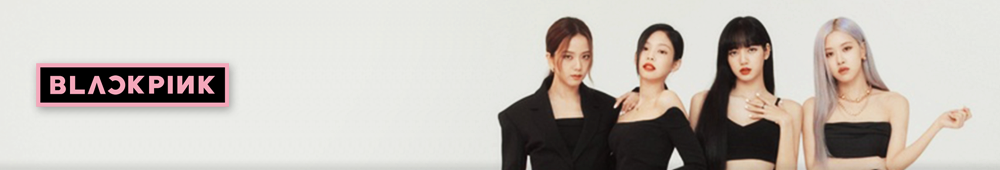
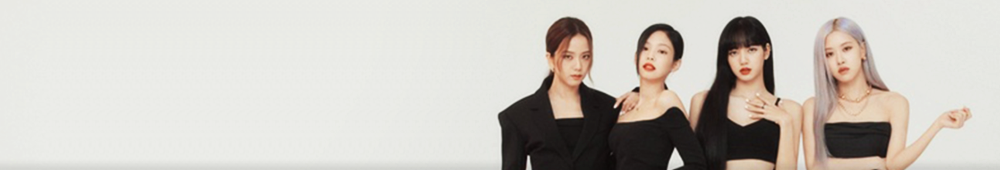
Add files via upload

Changed region(s): [[0.031, 0.3529, 0.248, 0.6765]]

diff --git a/css/bbs.css b/css/bbs.css
@@ -2,6 +2,7 @@
 
 /* reset */
 *{margin: 0; padding: 0;}
+ul,li{margin: 0; padding: 0;list-style:none;}
 body{background-color: #f4a6ba;}
 a {text-decoration: none;}
 .blind {position: absolute;top: 0; left: 0;
@@ -12,7 +13,27 @@ width: 0; height: 0; font-size: 0;
 #wrap {width: 1000px; margin: 0 auto;box-shadow: 0 0 50px rgba(0,0,0,0.2);
 
 }
-header {width: 1000px; height:170px; background-color: #000; margin: 0 auto;}
+header {width: 1000px; height:170px;
+     background:url("../images/bbs/top.png");
+    margin: 0 auto; position: relative; /* 기준점*/
+}
+header .logo img {width: 200px; margin-top: 60px;
+box-shadow: 0 0 20px rgba(0,0,0,0.3);
+margin-left: 30px;
+}
+header .menu {width: 608px; height: 35px; font-family:'Exo 2' ;
+      position: absolute; bottom: 0; right: 0;}
+header .menu ul li a {display: block; float: left;
+    background-color: #000;
+    width: 150px; height: 35px; line-height: 35px; margin-left: 2px;
+    text-align: center; color: #fff;
+    border-top-right-radius: 10px;
+    border-top-left-radius: 10px;
+}
+header .menu ul li a:hover,header .menu ul li a:focus
+ {
+    background-color: #f4a6ba; color: #000;
+}
 /* bbs */
 #contents {
     position: relative;
@@ -21,7 +42,9 @@ background-color: #fff;
 margin:0 auto; padding-top: 130px;
 padding-bottom: 100px; 
 }
-#contents h2 {position: absolute; top: 60px;left: 100px; font-size: 30px;}
+#contents h2 {position: absolute; top: 60px;left: 100px;
+    font-family:'Exo 2';
+    font-size: 30px;}
 #contents table {width: 800px;
 margin: 0 auto; font-size: 13px;
 border-top:2px solid #a3a3a3; 

diff --git a/div.span.html b/div.span.html
@@ -1,0 +1,44 @@
+<!DOCTYPE html>
+<html lang="en">
+<head>
+    <meta charset="UTF-8">
+    <meta http-equiv="X-UA-Compatible" content="IE=edge">
+    <meta name="viewport" content="width=device-width, initial-scale=1.0">
+    <title>div(block),span(inline)</title>
+    <style>
+        div {width: 100px; height: 30px;  line-height: 30px;
+            margin: 30px; background-color: pink;
+        text-align: center;  
+                
+        /* cursor: pointer; 커서 - 손가락표시 */
+        /* display: none;가리기 */
+        /* display: block; 보기 */ 
+        /* display: inline;  인라인 */ 
+        /* background-color: skyblue; */ 
+        }
+        
+        span {width: 200px; height: 30px;  line-height: 30px;
+            margin: 30px; background-color: pink;
+        text-align: center;  
+        display: block;
+        /* display: inline; */
+        }
+
+
+        
+    </style>
+</head>
+<body>
+    <!-- inline은 가로 세로 사이즈 불가능 -->
+    <!-- block은 가로 세로 사이즈 가능 -->
+    <div>ANSEON</div>
+    <!-- div*3{ANSEON} -->
+    <div>ANSEON</div>
+    <div>ANSEON</div>
+    <div>ANSEON</div>
+
+   
+    <!-- span*3{JANG AN SEON} -->
+    <span>JANG AN SEON</span><span>JANG AN SEON</span><span>JANG AN SEON</span>
+</body>
+</html>

diff --git a/index.html b/index.html
@@ -5,12 +5,27 @@
     <meta http-equiv="X-UA-Compatible" content="IE=edge">   
     <title> bbs - 블랙핑크 </title>
     <link rel="stylesheet" href="./css/bbs.css">
+    <link href="https://fonts.googleapis.com/css2?family=Exo+2:wght@300;400&display=swap" rel="stylesheet">
 </head>
 <body>
     <!-- #contents>table>caption.blink{블랙핑크 게시판} -->
     <div id="wrap">
     <header>
-       <a href="#"><img src="./images/bbs/top.png" alt="topimg"></a>
+      
+       <!-- .menu>ul>li*4>a -->
+       
+       <!-- h1.logo -->
+       <h1 class="logo">
+            <a href="#"><img src="./images/bbs/logo.png" alt="로고"></a>
+       </h1>
+       <div class="menu">
+        <ul>
+            <li><a href="#">COMPANY</a></li>
+            <li><a href="#">INVESTORS</a></li>
+            <li><a href="#">NEWS</a></li>
+            <li><a href="#">CAREERS</a></li>
+        </ul>
+       </div>
     </header>
     <div id="contents">
         <h2> BBS </h2>
